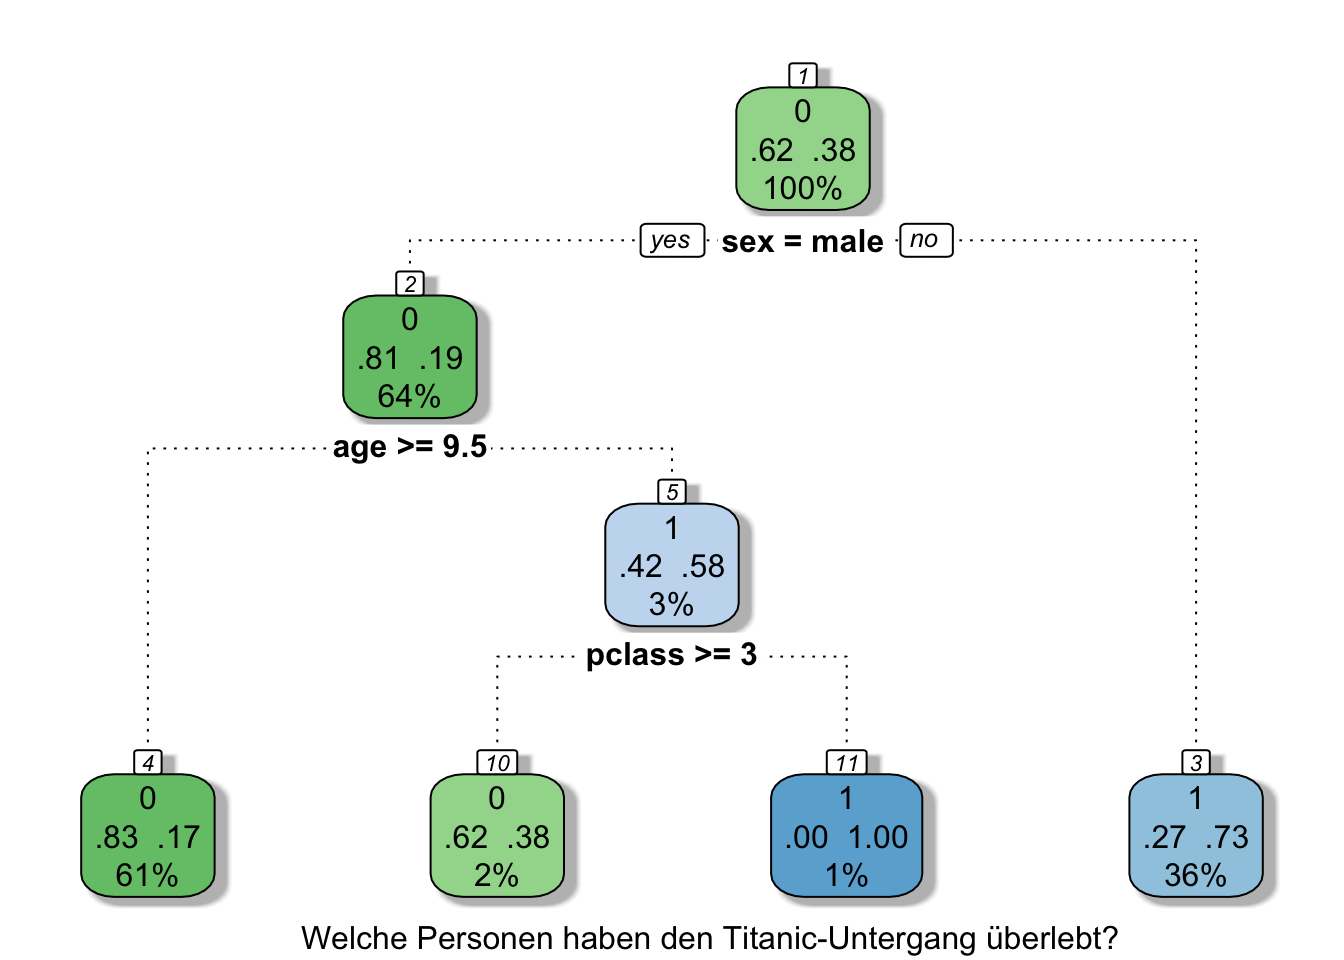
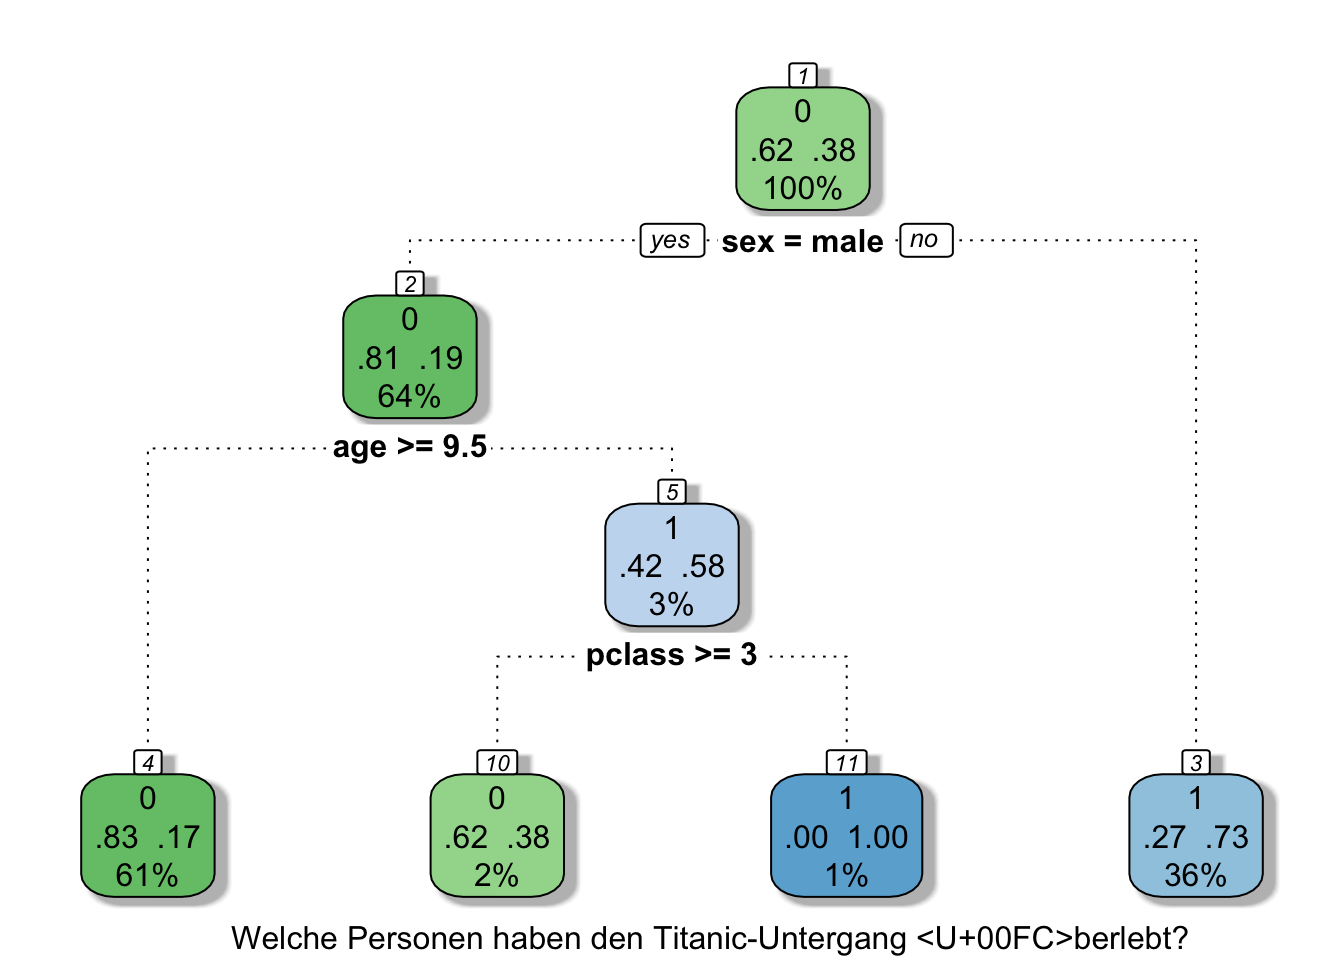
executed build_site

Changed region(s): [[0.1562, 0.9688, 0.875, 1.0]]

diff --git a/public/post/r-tutorium-gmds-2018/index.html b/public/post/r-tutorium-gmds-2018/index.html
@@ -191,7 +191,7 @@ temperaturen &lt;- c(27, 27, 22, 24, 13, 13, 13, 12)
 max_temp &lt;- max(temperaturen)
 min_temp &lt;- min(temperaturen)
 paste(&quot;Der wärmste Tag wird&quot;, max_temp, &quot;Grad Celsius warm. Die kälteste&quot;, min_temp, &quot;Grad Celsius.&quot;)</code></pre>
-<pre><code>## [1] &quot;Der wärmste Tag wird 27 Grad Celsius warm. Die kälteste 12 Grad Celsius.&quot;</code></pre>
+<pre><code>## [1] &quot;Der w&lt;U+00E4&gt;rmste Tag wird 27 Grad Celsius warm. Die k&lt;U+00E4&gt;lteste 12 Grad Celsius.&quot;</code></pre>
 <pre class="r"><code>median(temperaturen) # Berechnen des Medians</code></pre>
 <pre><code>## [1] 17.5</code></pre>
 <pre class="r"><code># Extra Informationen: 
@@ -296,11 +296,11 @@ los_angeles &lt;- c(29, 31, 31, 28, 26, 26, 26, 26)
 moskau &lt;- c(19, 18, 10, 9, 9, 9, 8, 8)
   
 wettervorhersage(los_angeles)</code></pre>
-<pre><code>## [1] &quot;Die geringste Temperatur ist: 26 und die höchste Temperatur 31 Grad Celsius.&quot;
-## [1] &quot;Die Temperaturschwankung (gemessen durch die Standardabweichung) beträgt 2.23 Grad Celsius.&quot;</code></pre>
+<pre><code>## [1] &quot;Die geringste Temperatur ist: 26 und die h&lt;U+00F6&gt;chste Temperatur 31 Grad Celsius.&quot;
+## [1] &quot;Die Temperaturschwankung (gemessen durch die Standardabweichung) betr&lt;U+00E4&gt;gt 2.23 Grad Celsius.&quot;</code></pre>
 <pre class="r"><code>wettervorhersage(moskau)</code></pre>
-<pre><code>## [1] &quot;Die geringste Temperatur ist: 8 und die höchste Temperatur 19 Grad Celsius.&quot;
-## [1] &quot;Die Temperaturschwankung (gemessen durch die Standardabweichung) beträgt 4.53 Grad Celsius.&quot;</code></pre>
+<pre><code>## [1] &quot;Die geringste Temperatur ist: 8 und die h&lt;U+00F6&gt;chste Temperatur 19 Grad Celsius.&quot;
+## [1] &quot;Die Temperaturschwankung (gemessen durch die Standardabweichung) betr&lt;U+00E4&gt;gt 4.53 Grad Celsius.&quot;</code></pre>
 </div>
 </div>
 </div>
@@ -331,7 +331,7 @@ str(sinnlosse_beispielliste)</code></pre>
 ##   ..$ : chr &quot;B&quot;
 ##  $ :function (x)  
 ##   ..- attr(*, &quot;srcref&quot;)= &#39;srcref&#39; int [1:8] 4 23 14 1 23 1 4 14
-##   .. ..- attr(*, &quot;srcfile&quot;)=Classes &#39;srcfilecopy&#39;, &#39;srcfile&#39; &lt;environment: 0x7fe237236558&gt;</code></pre>
+##   .. ..- attr(*, &quot;srcfile&quot;)=Classes &#39;srcfilecopy&#39;, &#39;srcfile&#39; &lt;environment: 0x7fca9210b1e8&gt;</code></pre>
 </div>
 <div id="datensatz-aka-data.frame" class="section level2">
 <h2>Datensatz aka data.frame</h2>
@@ -472,12 +472,12 @@ head(titanic_sav) # ersten sechs Zeilen des Datensatzes</code></pre>
 <pre><code>## # A tibble: 6 x 14
 ##   pclass survived name  sex     age sibsp parch ticket  fare cabin embarked
 ##    &lt;dbl&gt;    &lt;dbl&gt; &lt;chr&gt; &lt;chr&gt; &lt;dbl&gt; &lt;dbl&gt; &lt;dbl&gt; &lt;chr&gt;  &lt;dbl&gt; &lt;chr&gt; &lt;chr&gt;   
-## 1      1        1 Alle… fema… 29        0     0 24160  211.  B5    S       
-## 2      1        1 Alli… male   0.92     1     2 113781 152.  C22 … S       
-## 3      1        0 Alli… fema…  2        1     2 113781 152.  C22 … S       
-## 4      1        0 Alli… male  30        1     2 113781 152.  C22 … S       
-## 5      1        0 Alli… fema… 25        1     2 113781 152.  C22 … S       
-## 6      1        1 Ande… male  48        0     0 19952   26.6 E12   S       
+## 1      1        1 Alle~ fema~ 29        0     0 24160  211.  B5    S       
+## 2      1        1 Alli~ male   0.92     1     2 113781 152.  C22 ~ S       
+## 3      1        0 Alli~ fema~  2        1     2 113781 152.  C22 ~ S       
+## 4      1        0 Alli~ male  30        1     2 113781 152.  C22 ~ S       
+## 5      1        0 Alli~ fema~ 25        1     2 113781 152.  C22 ~ S       
+## 6      1        1 Ande~ male  48        0     0 19952   26.6 E12   S       
 ## # ... with 3 more variables: boat &lt;chr&gt;, body &lt;dbl&gt;, home.dest &lt;chr&gt;</code></pre>
 <pre class="r"><code>summary(titanic_sav) # Zusammenfassung des Datensatzes</code></pre>
 <pre><code>##      pclass         survived         name               sex           
@@ -541,12 +541,12 @@ mean(titanic$age, na.rm = TRUE)</code></pre>
 <pre><code>## # A tibble: 6 x 14
 ##   pclass survived name  sex     age sibsp parch ticket  fare cabin embarked
 ##    &lt;int&gt;    &lt;int&gt; &lt;chr&gt; &lt;chr&gt; &lt;dbl&gt; &lt;int&gt; &lt;int&gt; &lt;chr&gt;  &lt;dbl&gt; &lt;chr&gt; &lt;chr&gt;   
-## 1      1        1 Fort… fema…  60       1     4 19950  2959. C23 … S       
-## 2      1        1 Card… male   36       0     1 PC 17… 5764. B51 … C       
-## 3      1        1 Card… fema…  58       0     1 PC 17… 5764. B51 … C       
-## 4      1        1 Lesu… male   35       0     0 PC 17… 5764. B101  C       
-## 5      1        1 Ward… fema…  35       0     0 PC 17… 5764. &lt;NA&gt;  C       
-## 6      3        0 Stor… male   60.5     0     0 3701     NA  &lt;NA&gt;  S       
+## 1      1        1 Fort~ fema~  60       1     4 19950  2959. C23 ~ S       
+## 2      1        1 Card~ male   36       0     1 PC 17~ 5764. B51 ~ C       
+## 3      1        1 Card~ fema~  58       0     1 PC 17~ 5764. B51 ~ C       
+## 4      1        1 Lesu~ male   35       0     0 PC 17~ 5764. B101  C       
+## 5      1        1 Ward~ fema~  35       0     0 PC 17~ 5764. &lt;NA&gt;  C       
+## 6      3        0 Stor~ male   60.5     0     0 3701     NA  &lt;NA&gt;  S       
 ## # ... with 3 more variables: boat &lt;int&gt;, body &lt;int&gt;, home.dest &lt;chr&gt;</code></pre>
 <p><em>Die ältesten 3 überlebenden Passagiere</em></p>
 <pre class="r"><code>titanic %&gt;% 
@@ -735,8 +735,8 @@ plot(titanic$age, titanic$fare, col = titanic$pclass) </code></pre>
 <pre><code>## # A tibble: 2 x 4
 ##   sex    Lower  Mean Upper
 ##   &lt;chr&gt;  &lt;dbl&gt; &lt;dbl&gt; &lt;dbl&gt;
-## 1 female  31.9  33.2  34.5
-## 2 male    32.6  33.6  34.7</code></pre>
+## 1 female  32.0  33.2  34.5
+## 2 male    32.6  33.6  34.6</code></pre>
 <img src="/img/tut1-example-plot.png" />
 <hr>
 <div class="figure">

diff --git a/public/post/index.html b/public/post/index.html
@@ -79,21 +79,6 @@
     <article>
       <div class="subtitle tags is-6 is-pulled-right">
         
-      </div>
-      <h2 class="subtitle is-6">October 22, 2018</h2>
-      <h1 class="title"><a href="/post/test/">test</a></h1>
-      <div class="content">
-        
-              
-      
-    
-        
-      </div>
-    </article>
-    
-    <article>
-      <div class="subtitle tags is-6 is-pulled-right">
-        
         
 <a class="subtitle is-6" href="/tags/regression">#regression</a>
 
@@ -211,6 +196,42 @@ Some of them share the same information stored in columns and I had to combine t
       </div>
     </article>
     
+    <article>
+      <div class="subtitle tags is-6 is-pulled-right">
+        
+        
+<a class="subtitle is-6" href="/tags/function">#function</a>
+
+
+
+  
+  | <a class="subtitle is-6" href="/tags/rstats">#rstats</a>
+  
+  | <a class="subtitle is-6" href="/tags/spss">#spss</a>
+  
+  | <a class="subtitle is-6" href="/tags/survey-data">#survey-data</a>
+  
+
+        
+      </div>
+      <h2 class="subtitle is-6">July 18, 2018</h2>
+      <h1 class="title"><a href="/post/import-ordered-spss-factors-into-r/">Import ordered SPSS factors into R</a></h1>
+      <div class="content">
+        
+              
+      
+    Recently I have to work with data stored in SPSS files, most variables stored as ordered factor variables. Since I work with R, I have to import them. On the one hand, fortunatly, there is the haven package, which makes importing SPSS files an easy taks. On the other hand, unfortunatly, ordered &hellip;
+        
+        <a class="button is-link" href="/post/import-ordered-spss-factors-into-r/" style="height:28px">
+          Read more
+          <span class="icon is-small">
+            <i class="fa fa-angle-double-right"></i>
+          </span>
+        </a>
+        
+      </div>
+    </article>
+    
   </div>
 </section>
 <section class="section">
@@ -223,17 +244,6 @@ Some of them share the same information stored in columns and I had to combine t
       </div>
       <div class="level-right is-marginless">
         <div class="level-item">
-          
-          <a class="button" href="/post/page/2/">
-            Older
-            <span class="icon is-small is-marginless">
-              <svg viewbox='0 0 24 24' stroke-linecap='round' stroke-linejoin='round' stroke-width='2' aria-hidden='true'>
-    
-    <polyline points="14 6 20 12 14 18"/>
-    
-  </svg>
-            </span>
-          </a>
           
         </div>
       </div>

diff --git a/public/post/join-by-rows/index.html b/public/post/join-by-rows/index.html
@@ -94,14 +94,14 @@
       <p>In a recent project I find myself often in the situation to deal with similar but not equal datasets. I am working with the German Hospital Registers for the years since 2005 and there is a dataset for each year.</p>
 <p>Some of them share the same information stored in columns and I had to combine them in a single dataframe.</p>
 <pre class="r"><code>library(tidyverse)  </code></pre>
-<pre><code>## ── Attaching packages ────────────────────────────────────────────────────────────────────────────────────────────────────── tidyverse 1.2.1 ──</code></pre>
-<pre><code>## ✔ ggplot2 3.0.0     ✔ purrr   0.2.5
-## ✔ tibble  1.4.2     ✔ dplyr   0.7.6
-## ✔ tidyr   0.8.1     ✔ stringr 1.3.1
-## ✔ readr   1.1.1     ✔ forcats 0.3.0</code></pre>
-<pre><code>## ── Conflicts ───────────────────────────────────────────────────────────────────────────────────────────────────────── tidyverse_conflicts() ──
-## ✖ dplyr::filter() masks stats::filter()
-## ✖ dplyr::lag()    masks stats::lag()</code></pre>
+<pre><code>## -- Attaching packages ------------------------------------------------------------------------------------------------------ tidyverse 1.2.1 --</code></pre>
+<pre><code>## &lt;U+221A&gt; ggplot2 3.0.0     &lt;U+221A&gt; purrr   0.2.5
+## &lt;U+221A&gt; tibble  1.4.2     &lt;U+221A&gt; dplyr   0.7.6
+## &lt;U+221A&gt; tidyr   0.8.1     &lt;U+221A&gt; stringr 1.3.1
+## &lt;U+221A&gt; readr   1.1.1     &lt;U+221A&gt; forcats 0.3.0</code></pre>
+<pre><code>## -- Conflicts --------------------------------------------------------------------------------------------------------- tidyverse_conflicts() --
+## x dplyr::filter() masks stats::filter()
+## x dplyr::lag()    masks stats::lag()</code></pre>
 <pre class="r"><code># create two dataframes
 widths &lt;- iris %&gt;% 
   select(Species, ends_with(&quot;Width&quot;))

diff --git a/public/post/import-ordered-spss-factors-into-r/index.html b/public/post/import-ordered-spss-factors-into-r/index.html
@@ -156,12 +156,12 @@ base::table(spss$edlevel_converted)</code></pre>
 <pre><code>## # A tibble: 6 x 6
 ##      id sex      age marital        edlevel            edlevel_converted  
 ##   &lt;dbl&gt; &lt;ord&gt;  &lt;dbl&gt; &lt;ord&gt;          &lt;ord&gt;              &lt;ord&gt;              
-## 1    83 female    42 married/defac… secondary school   secondary school   
-## 2   294 female    54 married/defac… postgraduate degr… postgraduate degree
-## 3   425 male      NA married/defac… secondary school   secondary school   
-## 4    64 female    41 married/defac… postgraduate degr… postgraduate degree
-## 5   536 female    39 married/defac… postgraduate degr… postgraduate degree
-## 6    57 female    66 married/defac… undergraduate deg… undergraduate degr…</code></pre>
+## 1    83 female    42 married/defac~ secondary school   secondary school   
+## 2   294 female    54 married/defac~ postgraduate degr~ postgraduate degree
+## 3   425 male      NA married/defac~ secondary school   secondary school   
+## 4    64 female    41 married/defac~ postgraduate degr~ postgraduate degree
+## 5   536 female    39 married/defac~ postgraduate degr~ postgraduate degree
+## 6    57 female    66 married/defac~ undergraduate deg~ undergraduate degr~</code></pre>
 </div>
 
       
